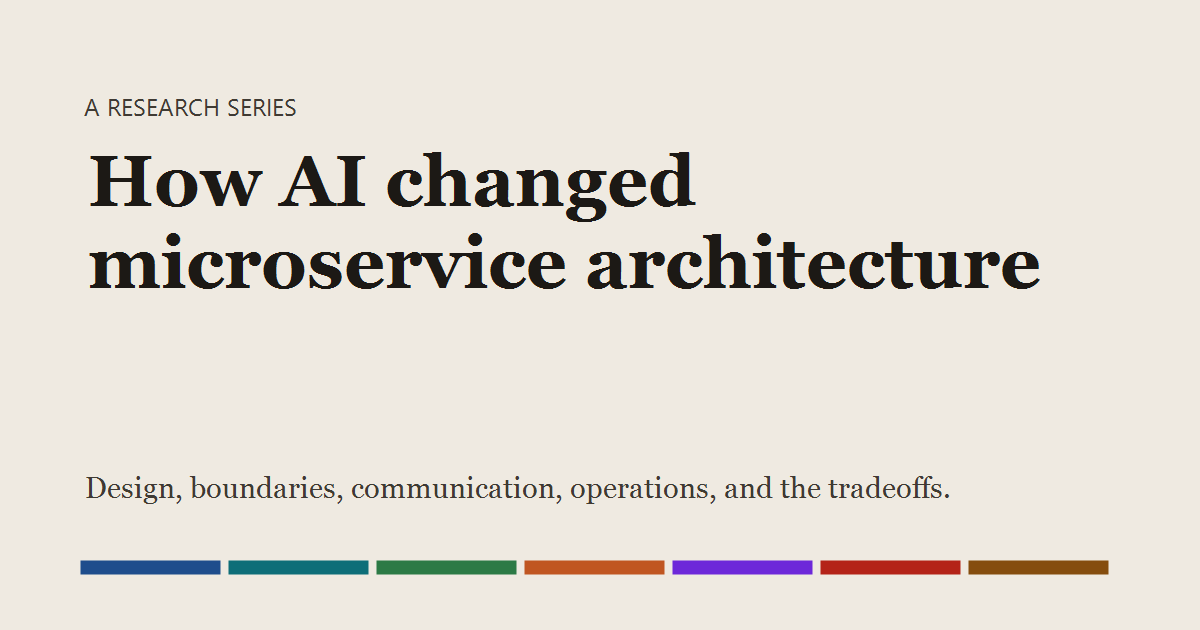
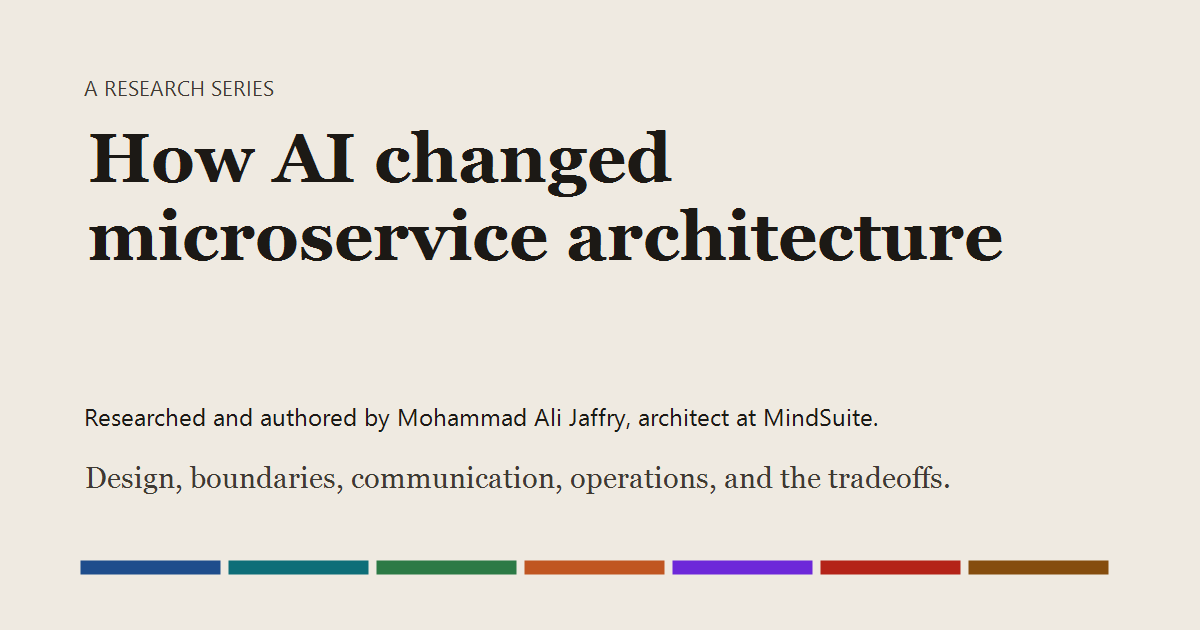
Credit Mohammad Ali Jaffry, architect at MindSuite.

diff --git a/src/components/Home.jsx b/src/components/Home.jsx
@@ -35,6 +35,7 @@ export function Home() {
       <section className="hero">
         <p className="eyebrow">Eighteen episodes · videos and the reading edition</p>
         <h1>How AI changed microservice architecture</h1>
+        <p className="byline">{series.credit}</p>
         <p className="deck">{aim?.sentence}</p>
         <div className="hero-actions">
           <Link className="btn solid" to="/read/the-aim">
@@ -61,7 +62,7 @@ export function Home() {
           <h2>Watch the map, then read in order</h2>
           <p className="deck tight">{map.plain}</p>
         </div>
-        <Video meta={{ ...map, presenter: series.presenter }} />
+        <Video meta={{ ...map, presenter: series.presenter, credit: series.credit }} />
       </section>
 
       <section className="finder">

diff --git a/src/components/Chapter.jsx b/src/components/Chapter.jsx
@@ -117,6 +117,7 @@ export function Chapter() {
             {meta.mark && <span aria-hidden="true">{meta.mark} </span>}
             {meta.title}
           </h1>
+          <p className="byline">{series.credit}</p>
           <p className="status">
             {[meta.answer, meta.date, meta.status].filter(Boolean).join(" · ")}
           </p>
@@ -135,7 +136,7 @@ export function Chapter() {
           <ShareBar title={meta.title} text={meta.sentence || meta.status} />
         </header>
 
-        <Video meta={{ ...meta, presenter: series.presenter }} />
+        <Video meta={{ ...meta, presenter: series.presenter, credit: series.credit }} />
 
         {(feature.picked.sentence || feature.picked.plain) && (
           <div className="feature-pair">

diff --git a/src/styles.css b/src/styles.css
@@ -168,8 +168,14 @@ h1, h2, h3, p, li, td, figcaption {
 h1, h2, h3 { font-family: var(--display); font-weight: 650; letter-spacing: -0.03em; line-height: 1.15; }
 .hero h1 {
   font-size: clamp(2.5rem, 6vw, 4.6rem);
-  margin: 0 0 0.8rem;
+  margin: 0;
   max-width: 16ch;
+}
+.byline {
+  margin: 0.35rem 0 0.8rem;
+  font-family: var(--sans);
+  font-size: 0.98rem;
+  color: var(--soft);
 }
 .deck {
   font-size: 1.25rem;

diff --git a/index.html b/index.html
@@ -4,6 +4,7 @@
     <meta charset="UTF-8" />
     <meta name="viewport" content="width=device-width, initial-scale=1.0" />
     <title>What AI changed</title>
+    <meta name="author" content="Mohammad Ali Jaffry, architect at MindSuite" />
     <meta
       name="description"
       content="A research series on how AI changed microservice architecture: design, boundaries, communication, operations, and the tradeoffs."

diff --git a/src/components/Blocks.jsx b/src/components/Blocks.jsx
@@ -286,7 +286,7 @@ export function Video({ meta }) {
       <figcaption>
         Episode {String(meta.episode).padStart(2, "0")}
         {meta.duration ? ` · ${meta.duration}` : ""}
-        <span> · Spoken by {meta.presenter || "Mohammad Ali Jaffry"}</span>
+        <span> · {meta.credit || "Researched and authored by Mohammad Ali Jaffry, architect at MindSuite."}</span>
       </figcaption>
     </figure>
   );

diff --git a/src/components/Shell.jsx b/src/components/Shell.jsx
@@ -66,7 +66,7 @@ export function Shell({ children }) {
             Each episode has a video and a Word document you can download.
           </p>
           <p>
-            Presented by {series.presenter}. Reading edition, {series.date}.
+            {series.credit} Reading edition, {series.date}.
           </p>
         </div>
       </footer>
